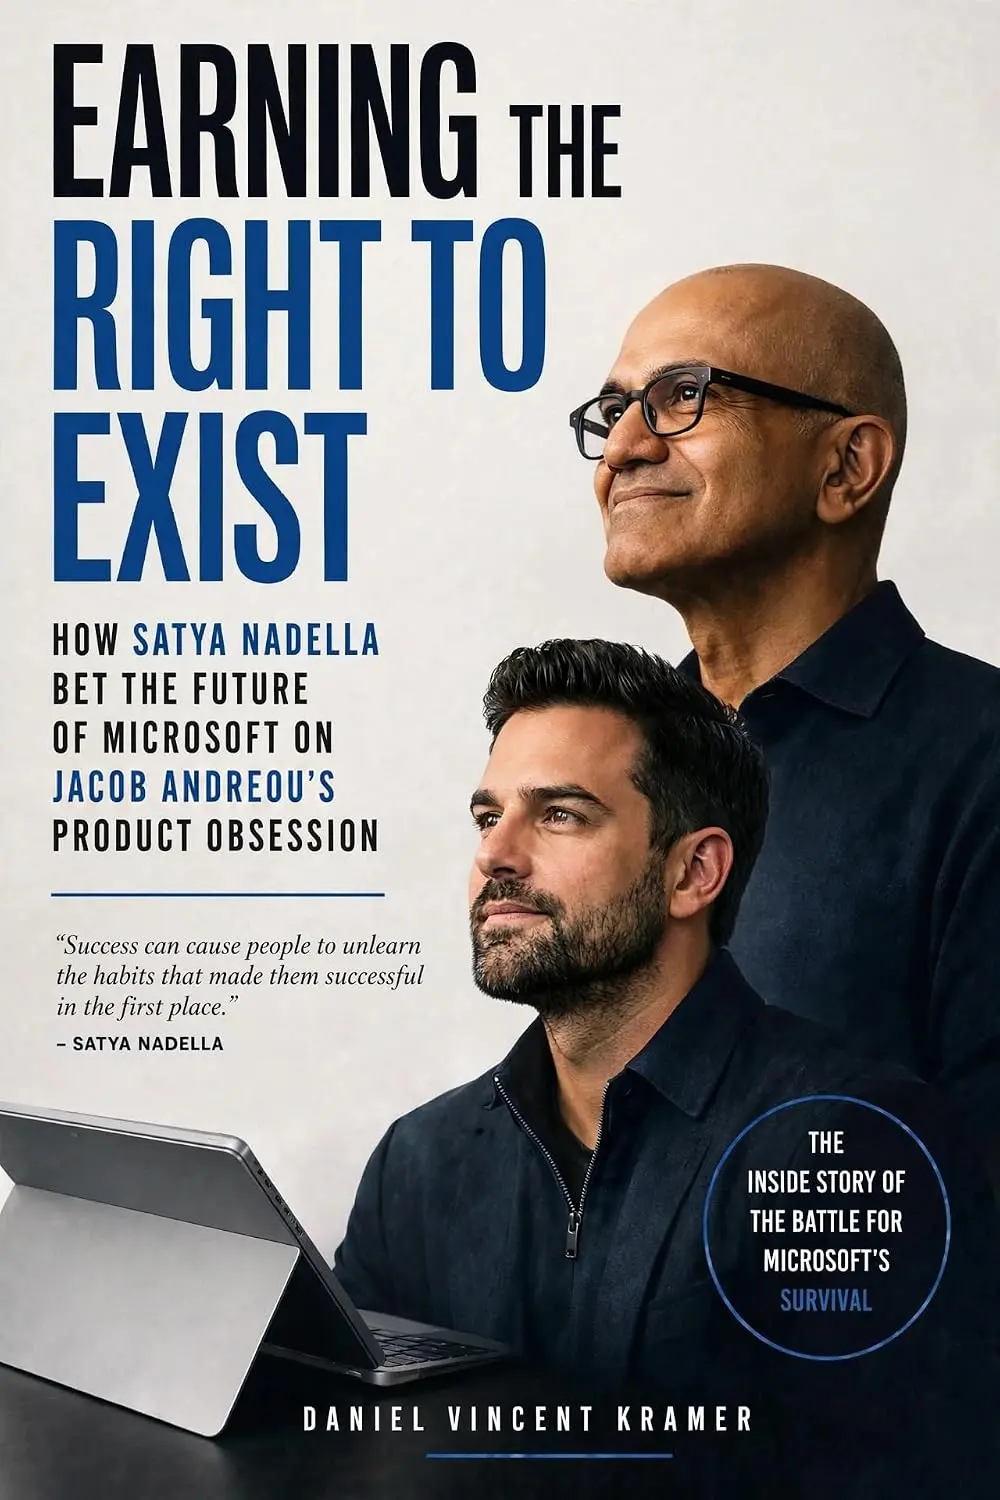
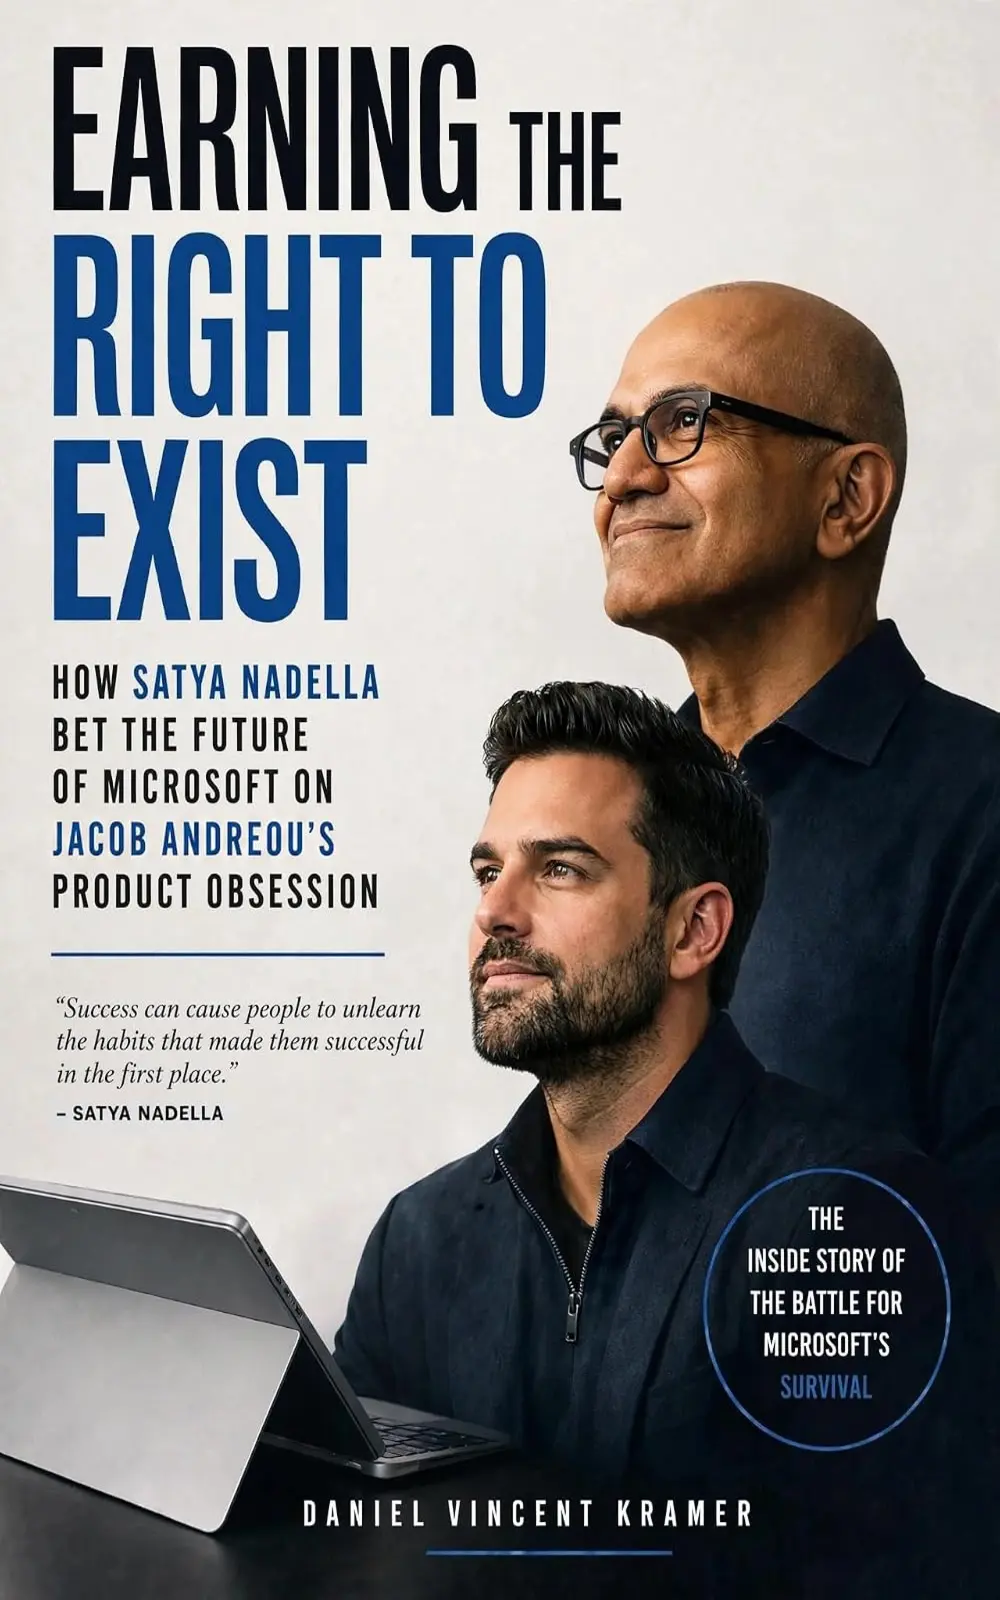
Update book 'Earning the Right to Exist' with correct description and image

diff --git a/books.html b/books.html
@@ -48,15 +48,15 @@
             </section>
 
             <section id="earning-right" class="book-detail-section">
-                <a href="https://www.amazon.com/dp/B0H96HRFMY">
+                <a href="https://www.amazon.com/dp/B0H96HRFMY" target="_blank" rel="noopener noreferrer">
                     <img src="images/earning-right.webp" alt="Earning the Right to Exist Book Cover">
                 </a>
                 <div class="book-detail-info">
                     <h2>Earning the Right to Exist: How Satya Nadella Bet the Future of Microsoft on Jacob Andreou's Product Obsession</h2>
                     <p>
-                        "Success can cause people to unlearn the habits that made them successful in the first place." - Satya Nadella. The inside story of the battle for Microsoft's survival.
+                        Earning the Right to Exist is the inside story of Microsoft’s fight to save Copilot, reset its product culture, and build software people actually want to use. Microsoft won the AI infrastructure race. It may still lose the product war. Satya Nadella issues an ultimatum: Microsoft’s AI division must earn the right to exist. To save it, he turns to Jacob Andreou, the 33-year-old former Snap executive. Andreou’s diagnosis is blunt: Microsoft does not have an AI problem. It has a product problem.
                     </p>
-                    <a href="https://www.amazon.com/dp/B0H96HRFMY">View on Amazon</a>
+                    <a href="https://www.amazon.com/dp/B0H96HRFMY" target="_blank" rel="noopener noreferrer">View on Amazon</a>
                 </div>
             </section>
 
